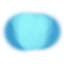
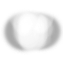
Plasma torch

diff --git a/C_L-Test/Assets/PlasmaTorch.cs b/C_L-Test/Assets/PlasmaTorch.cs
@@ -1,0 +1,38 @@
+using UnityEngine;
+using System.Collections;
+
+public class PlasmaTorch : MonoBehaviour {
+	ParticleSystem Plasma;
+	float colorF;
+	// Use this for initialization
+	void Start () {
+		Plasma = GetComponent<ParticleSystem> ();
+
+		Plasma.Stop() ;
+	}
+	
+	// Update is called once per frame
+	void Update(){
+		
+		colorF += 0.6f * Input.GetAxis ("Mouse ScrollWheel");
+		if (colorF <=0){
+			colorF = 0;
+		}
+		if (colorF >=0.8f){
+			colorF = 0.8f;
+		}
+		Color plasmaColor = new Color ( 0.8f -( colorF/2), colorF + 0.2f, 0.2f);
+		Plasma.startColor = plasmaColor;
+		Debug.Log (colorF.ToString());
+		if (Input.GetMouseButtonDown (0)) {
+			Plasma.Play ();
+
+
+		}
+		if (Input.GetMouseButtonUp(0)){
+			Plasma.Stop() ;
+
+		}
+
+	}
+}

diff --git a/C_L-Test/Assets/DestroyParticleSystem.cs b/C_L-Test/Assets/DestroyParticleSystem.cs
@@ -6,7 +6,7 @@ public class DestroyParticleSystem : MonoBehaviour {
 	// Use th:is for initialization
 	void Update () {
 		timer +=1f * Time.fixedDeltaTime;
-		Debug.Log (timer.ToString ());
+	
 		if (timer >= 7f) {
 			Destroy (gameObject);
 		}
